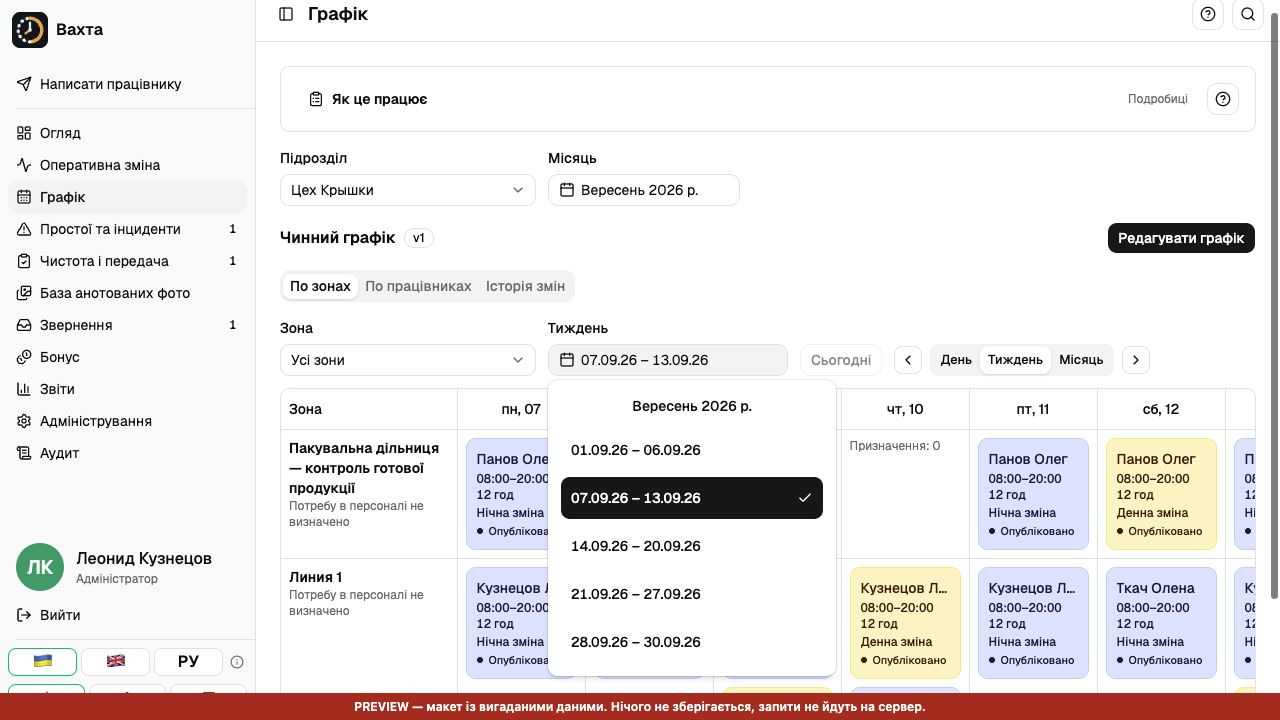
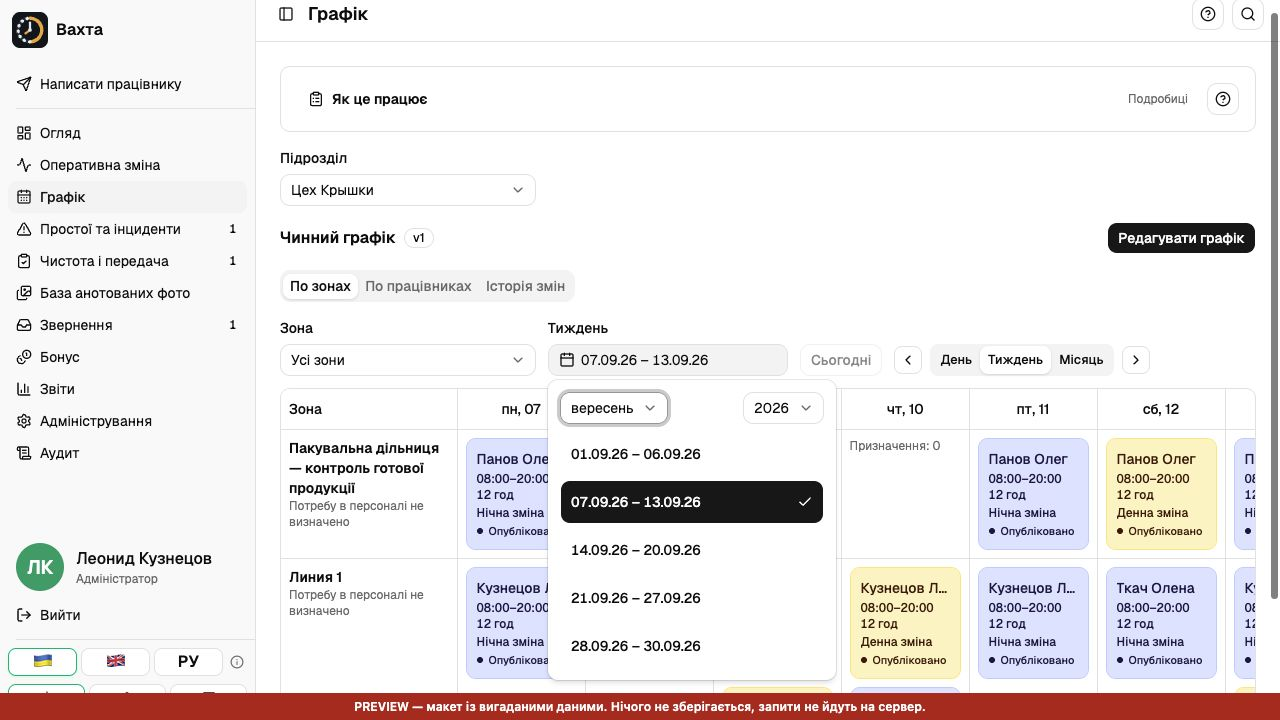
fix(schedule): navigate months and years from period pickers

Changed region(s): [[0.4375, 0.5194, 0.6562, 0.8556], [0.4375, 0.8861, 0.6562, 0.9472], [0.4375, 0.2139, 0.5312, 0.275]]

diff --git a/apps/admin-web/src/features/schedule-management/ui/schedule-workspace.tsx b/apps/admin-web/src/features/schedule-management/ui/schedule-workspace.tsx
@@ -33,6 +33,13 @@ const t = messages(currentLocale()).scheduleWorkspace;
 const s = messages(currentLocale()).admin.schedule;
 export function ScheduleWorkspace() {
   const w = useWorkspace();
+  const [periodMode, setPeriodMode] = useState<PeriodMode | null>(null);
+  const [selectedDate, setSelectedDate] = useState<string | null>(null);
+  function selectDate(value: string) {
+    if (w.busy) return;
+    setSelectedDate(value);
+    if (!value.startsWith(w.month)) w.changeMonth(value.slice(0, 7));
+  }
   return (
     <div className="min-w-0 space-y-4">
       <div className="hidden md:block">
@@ -57,13 +64,15 @@ export function ScheduleWorkspace() {
           options={w.units.map((unit) => ({ value: unit.id, label: unit.name }))}
           className="min-w-0 w-full sm:w-64"
         />
-        <MonthField
-          picker="months"
-          label={s.month}
-          value={w.month}
-          onChange={w.changeMonth}
-          className="min-w-0 w-full sm:w-48"
-        />
+        {!w.version && (
+          <MonthField
+            picker="months"
+            label={s.month}
+            value={w.month}
+            onChange={w.changeMonth}
+            className="min-w-0 w-full sm:w-48"
+          />
+        )}
       </div>
       <QueryFeedback query={w.orgResult.queryState} />
       <QueryFeedback query={w.versionsQuery} />
@@ -89,20 +98,42 @@ export function ScheduleWorkspace() {
           }
         />
       ) : (
-        <WorkspaceView key={w.scope} workspace={w} />
+        <WorkspaceView
+          key={w.scope}
+          workspace={w}
+          mode={periodMode}
+          onMode={setPeriodMode}
+          selectedDate={selectedDate}
+          onDate={selectDate}
+        />
       )}
     </div>
   );
 }
-function WorkspaceView({ workspace: w }: { workspace: ReturnType<typeof useWorkspace> }) {
+function WorkspaceView({
+  workspace: w,
+  mode,
+  onMode,
+  selectedDate,
+  onDate,
+}: {
+  workspace: ReturnType<typeof useWorkspace>;
+  mode: PeriodMode | null;
+  onMode: (mode: PeriodMode) => void;
+  selectedDate: string | null;
+  onDate: (date: string) => void;
+}) {
   const mobile = useIsMobile();
-  const [mode, setMode] = useState<PeriodMode | null>(null);
   const effectiveMode = mobile && mode === 'month' ? 'week' : (mode ?? (mobile ? 'day' : 'week'));
   const today = siteToday(w.timezone);
   const [grouping, setGrouping] = useState<'zones' | 'people' | 'history'>('zones');
   const visibleGrouping =
     grouping === 'history' ? 'history' : effectiveMode === 'month' ? 'people' : grouping;
-  const [date, setDate] = useState(today.startsWith(w.month) ? today : `${w.month}-01`);
+  const date = selectedDate?.startsWith(w.month)
+    ? selectedDate
+    : today.startsWith(w.month)
+      ? today
+      : `${w.month}-01`;
   const [zone, setZone] = useState('');
   const [batch, setBatch] = useState<{ zoneId: string; date: string } | null>(null);
   const [review, setReview] = useState<{ grid: GridState; versionId: string } | null>(null);
@@ -267,17 +298,23 @@ function WorkspaceView({ workspace: w }: { workspace: ReturnType<typeof useWorks
                     ]}
                     className="min-w-0 w-full sm:w-64"
                   />
-                  {effectiveMode !== 'month' && (
+                  {effectiveMode === 'month' ? (
+                    <MonthField
+                      picker="months"
+                      label={s.month}
+                      value={w.month}
+                      onChange={w.changeMonth}
+                      disabled={w.busy}
+                      className="min-w-0 w-full sm:w-60"
+                    />
+                  ) : (
                     <>
                       <DateField
                         selection={effectiveMode === 'week' ? 'week' : 'day'}
                         label={effectiveMode === 'week' ? t.week : t.date}
-                        minDate={`${w.month}-01`}
-                        maxDate={monthDates(w.month).at(-1)}
+                        disabled={w.busy}
                         value={date}
-                        onChange={(value) => {
-                          if (monthDates(w.month).includes(value)) setDate(value);
-                        }}
+                        onChange={onDate}
                         className="min-w-0 w-full sm:w-60"
                       />
                       <Button
@@ -285,8 +322,7 @@ function WorkspaceView({ workspace: w }: { workspace: ReturnType<typeof useWorks
                         disabled={date === today}
                         onClick={() => {
                           if (date === today) return;
-                          if (today.startsWith(w.month)) setDate(today);
-                          else w.changeMonth(today.slice(0, 7));
+                          onDate(today);
                         }}
                       >
                         {t.today}
@@ -303,14 +339,14 @@ function WorkspaceView({ workspace: w }: { workspace: ReturnType<typeof useWorks
                         tooltip={t.previous}
                         disabled={dates[0] === `${w.month}-01`}
                         onClick={() =>
-                          setDate(shiftDate(w.month, date, effectiveMode === 'week' ? -7 : -1))
+                          onDate(shiftDate(w.month, date, effectiveMode === 'week' ? -7 : -1))
                         }
                       />
                     )}
                     <StateFilter
                       label={t.period}
                       value={effectiveMode}
-                      onChange={setMode}
+                      onChange={onMode}
                       options={(mobile
                         ? (['day', 'week'] as const)
                         : (['day', 'week', 'month'] as const)
@@ -328,7 +364,7 @@ function WorkspaceView({ workspace: w }: { workspace: ReturnType<typeof useWorks
                         tooltip={t.next}
                         disabled={dates.at(-1) === monthDates(w.month).at(-1)}
                         onClick={() =>
-                          setDate(shiftDate(w.month, date, effectiveMode === 'week' ? 7 : 1))
+                          onDate(shiftDate(w.month, date, effectiveMode === 'week' ? 7 : 1))
                         }
                       />
                     )}
@@ -343,12 +379,20 @@ function WorkspaceView({ workspace: w }: { workspace: ReturnType<typeof useWorks
                     grouping={visibleGrouping}
                     zoneId={zone}
                     selectedDate={date}
-                    onDate={setDate}
+                    onDate={onDate}
                   />
                 )}
               </TabsContent>
             )}
             <TabsContent value="history" className="pt-2 min-w-0">
+              <MonthField
+                picker="months"
+                label={s.month}
+                value={w.month}
+                onChange={w.changeMonth}
+                disabled={w.busy}
+                className="mb-3 w-full sm:w-60"
+              />
               <ScheduleHistory workspace={w} />
             </TabsContent>
           </Tabs>

diff --git a/apps/admin-web/src/shared/ui/week-calendar.tsx b/apps/admin-web/src/shared/ui/week-calendar.tsx
@@ -1,7 +1,11 @@
+import { useState } from 'react';
+import { messages } from '@vakhta/i18n';
+import { currentLocale } from '@/i18n';
+import { NativeSelect, NativeSelectOption } from '@/components/ui/native-select';
 import { CheckIcon } from 'lucide-react';
 import { Button } from '@/components/ui/button';
-import { formatDate, formatMonth } from '@/lib/format';
-import { fromIsoDate, toIsoDate, weekDateRange } from '@/shared/lib/calendar-date';
+import { formatDate } from '@/lib/format';
+import { fromIsoDate, fromIsoMonth, toIsoDate, weekDateRange } from '@/shared/lib/calendar-date';
 
 /** A week is the only selectable unit. Bounds reflect the caller's loaded calendar scope. */
 export function WeekCalendar({
@@ -16,8 +20,12 @@ export function WeekCalendar({
   readonly onChange: (value: string) => void;
 }) {
   const selected = fromIsoDate(value) ?? new Date();
-  const month = toIsoDate(selected).slice(0, 7);
-  const last = toIsoDate(new Date(selected.getFullYear(), selected.getMonth() + 1, 0));
+  const [month, setMonth] = useState(toIsoDate(selected).slice(0, 7));
+  const displayed = fromIsoMonth(month) ?? selected;
+  const year = displayed.getFullYear();
+  const t = messages(currentLocale()).ui.common;
+  const monthFormat = new Intl.DateTimeFormat(currentLocale(), { month: 'long' });
+  const last = toIsoDate(new Date(year, displayed.getMonth() + 1, 0));
   const minimum = minDate && minDate > `${month}-01` ? minDate : `${month}-01`;
   const maximum = maxDate && maxDate < last ? maxDate : last;
   const weeks = [];
@@ -34,7 +42,33 @@ export function WeekCalendar({
   }
   return (
     <div className="w-72 space-y-2 p-3">
-      <p className="px-2 py-1 text-center text-sm font-medium">{formatMonth(month)}</p>
+      <div className="flex items-center justify-between gap-2">
+        <NativeSelect
+          aria-label={t.calendarMonth}
+          value={month.slice(5)}
+          onChange={(event) => setMonth(`${year}-${event.target.value}`)}
+        >
+          {Array.from({ length: 12 }, (_, index) => {
+            const id = String(index + 1).padStart(2, '0');
+            return (
+              <NativeSelectOption key={id} value={id}>
+                {monthFormat.format(new Date(2000, index, 1))}
+              </NativeSelectOption>
+            );
+          })}
+        </NativeSelect>
+        <NativeSelect
+          aria-label={t.calendarYear}
+          value={year}
+          onChange={(event) => setMonth(`${event.target.value}-${month.slice(5)}`)}
+        >
+          {Array.from({ length: 201 }, (_, index) => year - 100 + index).map((item) => (
+            <NativeSelectOption key={item} value={item}>
+              {item}
+            </NativeSelectOption>
+          ))}
+        </NativeSelect>
+      </div>
       <div className="grid gap-1">
         {weeks.map(({ from, to }) => {
           const active = value >= from && value <= to;

diff --git a/apps/admin-web/src/features/schedule-management/ui/schedule-workspace.test.tsx b/apps/admin-web/src/features/schedule-management/ui/schedule-workspace.test.tsx
@@ -364,6 +364,33 @@ describe('schedule workspace', () => {
     expect(within(sheet).queryByRole('combobox')).toBeNull();
     expect(within(sheet).queryByRole('button', { name: t.apply })).toBeNull();
   });
+  it('keeps month mode and its toolbar picker when the selected year changes', async () => {
+    mockApi({ status: 'PUBLISHED' });
+    admin();
+    await screen.findByRole('tab', { name: t.zones });
+    fireEvent.click(screen.getByRole('radio', { name: t.month }));
+    fireEvent.click(
+      screen.getByRole('button', { name: messages(currentLocale()).admin.schedule.month }),
+    );
+    fireEvent.change(
+      screen.getByRole('combobox', { name: messages(currentLocale()).ui.common.calendarYear }),
+      { target: { value: '2027' } },
+    );
+    const january = new Intl.DateTimeFormat(currentLocale(), { month: 'short' }).format(
+      new Date(2000, 0, 1),
+    );
+    fireEvent.click(screen.getByRole('button', { name: january }));
+    await waitFor(() =>
+      expect(screen.getByRole('radio', { name: t.month }).getAttribute('aria-checked')).toBe(
+        'true',
+      ),
+    );
+    expect(
+      screen.getByRole('button', { name: messages(currentLocale()).admin.schedule.month })
+        .textContent,
+    ).toContain('2027');
+    expect(screen.queryByRole('tab', { name: t.zones })).toBeNull();
+  });
   it('does not create a version automatically when arriving with overview workers', async () => {
     const calls = mockApi({ status: 'PUBLISHED' });
     writeSchedulePreset({

diff --git a/apps/admin-web/src/components/app/date-picker.test.tsx b/apps/admin-web/src/components/app/date-picker.test.tsx
@@ -8,6 +8,26 @@ import { currentLocale } from '@/i18n';
 afterEach(cleanup);
 
 describe('calendar field selection units', () => {
+  it('browses another month and year before choosing a whole week', () => {
+    const onChange = vi.fn();
+    render(<DateField label="Week" value="2026-09-10" selection="week" onChange={onChange} />);
+    fireEvent.click(screen.getByRole('button', { name: 'Week' }));
+    const labels = messages(currentLocale()).ui.common;
+    fireEvent.change(screen.getByRole('combobox', { name: labels.calendarYear }), {
+      target: { value: '2027' },
+    });
+    fireEvent.change(screen.getByRole('combobox', { name: labels.calendarMonth }), {
+      target: { value: '01' },
+    });
+    expect(onChange).not.toHaveBeenCalled();
+    fireEvent.click(
+      screen.getByRole('button', {
+        name: `${formatDate('2027-01-04')} – ${formatDate('2027-01-10')}`,
+      }),
+    );
+    expect(onChange).toHaveBeenCalledWith('2027-01-04');
+  });
+
   it('shows whole weeks only and commits one week in a single click', () => {
     const onChange = vi.fn();
     render(

diff --git a/apps/admin-web/src/components/app/date-picker.tsx b/apps/admin-web/src/components/app/date-picker.tsx
@@ -43,7 +43,10 @@ export function DateField({
 }: FieldProps & { readonly selection?: 'day' | 'week' }) {
   const [open, setOpen] = useState(false);
   const selected = fromIsoDate(value);
-  const range = weekDateRange(value, minDate, maxDate);
+  const monthEnd = selected
+    ? toIsoDate(new Date(selected.getFullYear(), selected.getMonth() + 1, 0))
+    : undefined;
+  const range = weekDateRange(value, minDate ?? `${value.slice(0, 7)}-01`, maxDate ?? monthEnd);
   function choose(day: Date | undefined) {
     if (!day) return;
     onChange(toIsoDate(day));

diff --git a/packages/i18n/src/ru.ts b/packages/i18n/src/ru.ts
@@ -1653,6 +1653,7 @@ export const ru: Messages = {
       page: 'Страница {page} из {pages}',
     },
     common: {
+      calendarMonth: 'Месяц',
       calendarYear: 'Год',
       calendarPreviousYear: 'Предыдущий год',
       calendarNextYear: 'Следующий год',

diff --git a/packages/i18n/src/uk.ts b/packages/i18n/src/uk.ts
@@ -1655,6 +1655,7 @@ export const uk: Messages = {
       page: 'Сторінка {page} з {pages}',
     },
     common: {
+      calendarMonth: 'Місяць',
       calendarYear: 'Рік',
       calendarPreviousYear: 'Попередній рік',
       calendarNextYear: 'Наступний рік',

diff --git a/packages/i18n/src/messages.ts b/packages/i18n/src/messages.ts
@@ -1345,6 +1345,7 @@ export interface Messages {
       readonly page: string;
     };
     readonly common: {
+      readonly calendarMonth: string;
       readonly calendarYear: string;
       readonly calendarPreviousYear: string;
       readonly calendarNextYear: string;

diff --git a/packages/i18n/src/en.ts b/packages/i18n/src/en.ts
@@ -1653,6 +1653,7 @@ export const en: Messages = {
       page: 'Page {page} of {pages}',
     },
     common: {
+      calendarMonth: 'Month',
       calendarYear: 'Year',
       calendarPreviousYear: 'Previous year',
       calendarNextYear: 'Next year',

diff --git a/docs/engineering/features/schedule-calendar-redesign.md b/docs/engineering/features/schedule-calendar-redesign.md
@@ -430,3 +430,14 @@ not approve unresolved domain policy. Writer/index ownership transferred after c
   pickers and Sheet inspected; 390×720 mobile list and full-width Sheet inspected. Document width
   remained 390px. All ten i18n catalog checks passed. Screenshot evidence and comments will accompany each completed issue;
   incomplete epic criteria remain open, including policy answers and participant baseline/pilot.
+
+### Period navigation follow-up — 2026-09-13
+
+Week selection now includes month and year dropdowns; changing either only browses weeks, and
+choosing a week changes the loaded month and preserves the selected period mode. Month/year
+selection is directly beside the period mode controls. Empty-month and history views retain their
+month navigation. No backend cross-month write behavior changed. Local date-field/workspace
+regressions: 19 passed, including browsing another year without committing until a week is selected
+and retaining month mode across scope changes. i18n catalogs: 10 passed; affected ESLint and
+admin-web TypeScript/Compiler build passed. Updated week/month screenshots supersede earlier picker
+captures. Lean: Simplify; period navigation is available where the period is read.
